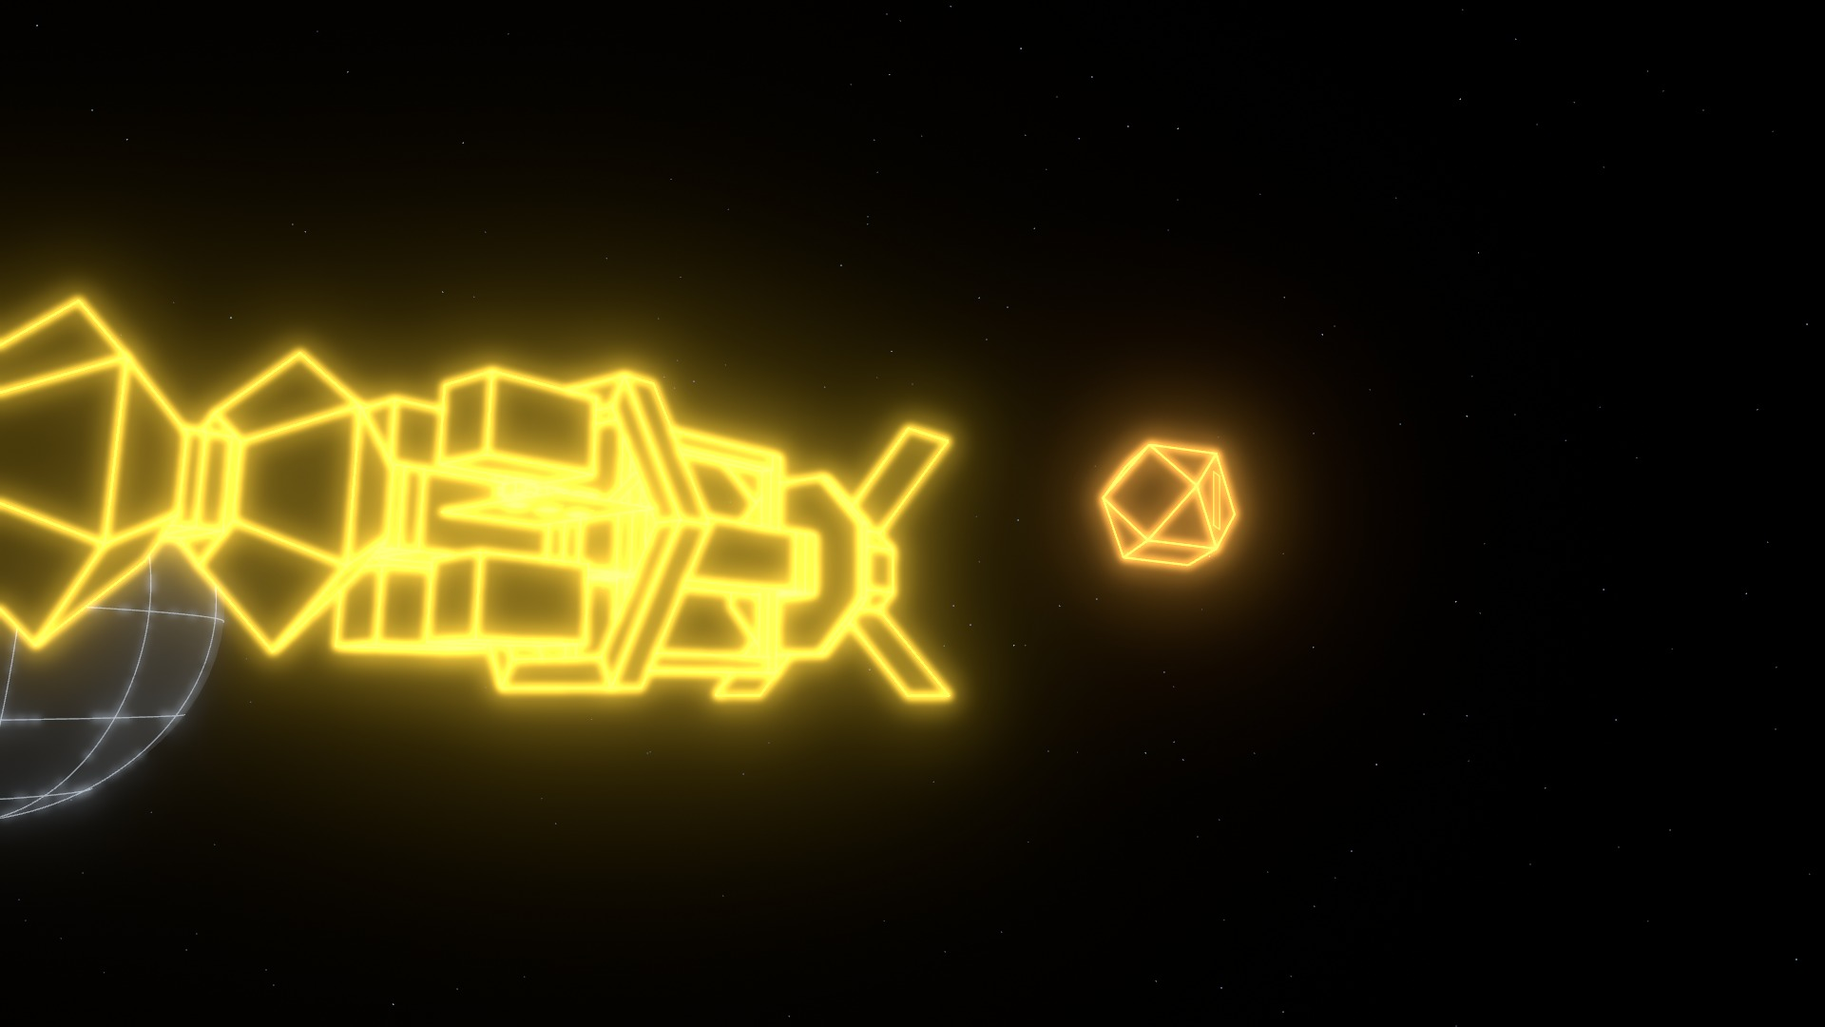
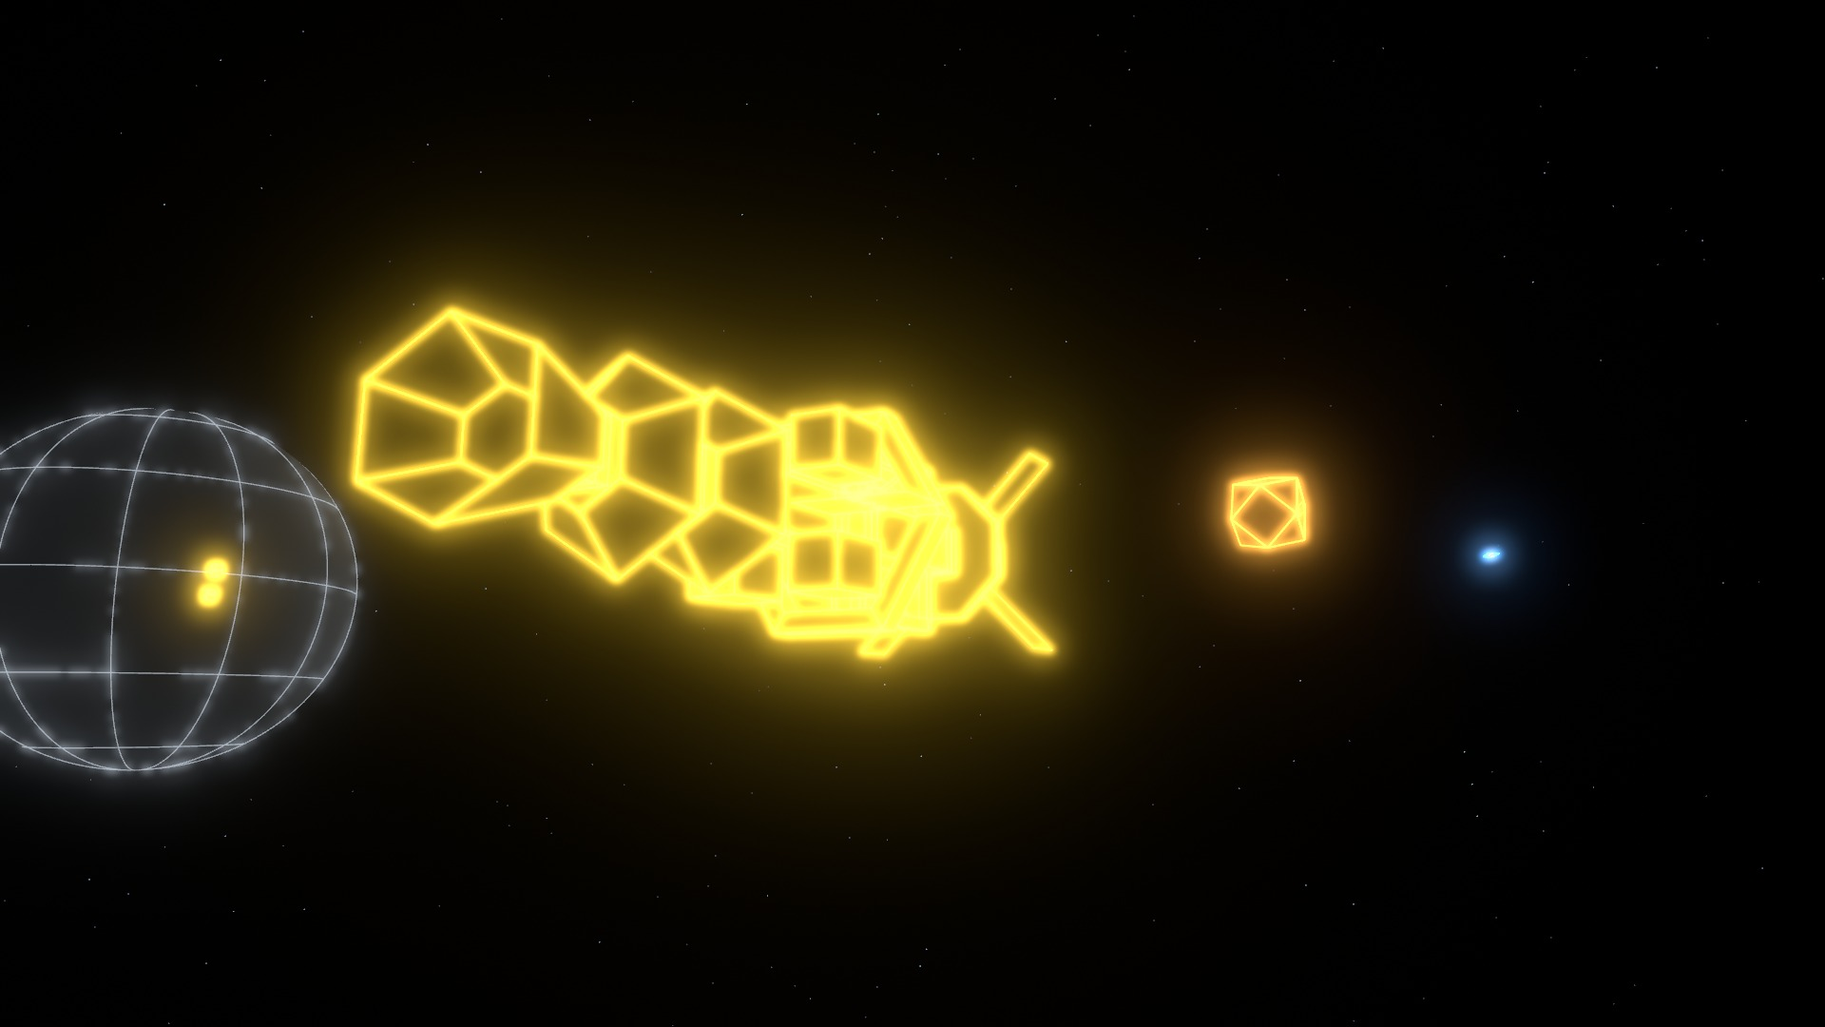
Site: every Titanoboa module its own page, the Bullsnake as ore hauler and tug, Station rising reshot (#368)
* Station rising reshot: the whole Titanoboa, her moon and her pod in frame, centred (Mark)

* Press kit: the three Titanoboa stills on Cloudinary (Mark's OK)

* Every Titanoboa module its own page, open to improve: the section turning, its job, 'Improve this module' straight into the hand-in page, and the prison Titan as the example of a new one (Mark)

* Module pages: Marketing's words, with the pay and Mark's any-role Titanoboa (prison modules beside the science pods)

* Module pages: engine and fuel modules wanted, for a module to fly between stars with a Bullsnake as her bridge (Mark's docking ring; words by Marketing)

* Bullsnake: ore hauler and tug, and in the system only, but for a module flown between stars (Mark)

* Bullsnake: what's built (the ore runs) apart from what's planned (the tug work), and her search words (Marketing)

* Module pages after Game dev's and Marketing's reviews: where each sits and why, the Titan's runs by trader, she flies the stack, Mark's prison list, honest pay, search words, Play free

* Bullsnake: any combination of modules through witchspace, a crew of five, and a Titan reconfigured where she sits (Mark)

* Bullsnake: Marketing's words, through hyperspace

* The drive is the engine (Mark): stacks fly on the Drive and a fuel module, the fuel module still wanted

* Module pages: the fuel module in separate cells, a damaged one ejected and replaced (Mark; words by Marketing)
[…]

Changed region(s): [[0.0, 0.2139, 0.75, 0.825], [0.7812, 0.4889, 0.8438, 0.5806]]

diff --git a/tools/ships.ts b/tools/ships.ts
@@ -98,17 +98,18 @@ const AT_WORK: Record<string, { heading: string; html: string }> = {
   titanoboa: {
     heading: 'Everyone calls her the Titan',
     html: `<p>Titanoboa is her name on Wexley-Yorozu's papers and in the module standard. Out in the galaxy, the news and the radio call her the Titan.</p>
-      <p>She doesn't build alone. While a yard works, a Wexley-Yorozu Bullsnake comes in every eight minutes or so from a real neighbouring system, with what the stage needs: machinery and food while she refines, alloys and minerals for the station’s frame and plating, computers to spin it up. Company Vipers guard her yard, a lost guard replaced from her hold, and most runs to her fly with an escort. Hail a freighter on the way in and she'll say so: <q>Dry Dock, in from Atriso with alloys for the Titan.</q></p>
-      <p>It's all the same on every phone: the freighter you pass is the one every commander there sees. <a href="/design/the-world/">How the galaxy flies</a>.</p>`,
+      <p>She doesn't build alone. While a yard works, a Wexley-Yorozu trader comes in every eight minutes or so from a real neighbouring system, with what the stage needs: machinery and food while she refines, alloys and minerals for the station’s frame and plating, computers to spin it up. Company Vipers guard her yard, a lost guard replaced from her hold, and most runs to her fly with an escort. Hail a trader on the way in and she'll say so: <q>Dry Dock, in from Atriso with alloys for the Titan.</q></p>
+      <p>It's all the same on every phone: the trader you pass is the one every commander there sees. <a href="/design/the-world/">How the galaxy flies</a>.</p>`,
   },
   bullsnake: {
-    heading: 'The Titan’s supply line',
-    html: `<p>Bullsnakes run ore from a moon into the Titan's maw, and fly in from neighbouring systems with what each stage of her build needs, in Wexley-Yorozu colours and usually under escort. Every commander sees the same ones, at the same moment. <a href="/design/the-world/">How the galaxy flies</a>.</p>`,
+    heading: 'Ore hauler and tug',
+    html: `<p>Bullsnakes run ore from a moon into the Titan's maw: every commander sees the same ones, at the same moment. They're her tugs too, and the plan gives them more of her work: fetching food and materials from the local station, ferrying cargo (and one day prisoners) between the Titan and the surface, making repairs, and moving her modules to set her up for the job.</p>
+    <p>They stay in the system: traders carry every good between the stars. The exception will be modules that have to travel. Stack any combination of them on their docking rings, add a drive and a fuel module, dock a Bullsnake in as the bridge, and she flies the whole stack through hyperspace. A Bullsnake carries a crew of about five: a pilot, an engineer and three hands. The same crew can take a Titan apart where she sits and put her back together for a new job. <a href="/design/ship-the-titanoboa/">The Titanoboa</a> · <a href="/design/the-world/">How the galaxy flies</a>.</p>`,
   },
 };
 
 const ROLE: Record<string, string> = {
-  multirole: 'Multirole', pirate: 'Pirate', police: 'Police', marshal: 'Co-operative Marshals', miner: 'Ore hauler', freighter: 'Constructor', station: 'Station',
+  multirole: 'Multirole', pirate: 'Pirate', police: 'Police', marshal: 'Co-operative Marshals', miner: 'Ore hauler and tug', freighter: 'Constructor', station: 'Station',
 };
 
 /** The first sentence, for a share card's line. */
@@ -235,7 +236,7 @@ export const SHIP_GROUPS: { id: string; name: string; line: string; has: (s: Shi
   { id: 'own', name: 'Ships you can fly', line: 'Every commander starts in a Cobra. The Fer-de-lance is built to order at the shipyards; more hulls go on sale when the yards sell them outright.', has: (_, own) => own },
   { id: 'law', name: 'The law', line: 'The police where a station keeps order, and the Co-operative Marshals when a warrant comes due.', has: (s) => s.role === 'police' || s.role === 'marshal' },
   { id: 'pirates', name: 'Pirates and Legends', line: 'The Sidewinder and the Mamba are the pirates’ favourites, and on the shipyards’ lists for when the yards sell hulls outright. Some ships are only ever met.', has: (s) => s.role === 'pirate' },
-  { id: 'industry', name: 'Industry', line: 'Wexley-Yorozu’s yards: the Titan that builds stations, and the freighters that feed her.', has: (s) => s.role === 'miner' || s.role === 'freighter' },
+  { id: 'industry', name: 'Industry', line: 'Wexley-Yorozu’s yards: the Titan that builds stations, and the Bullsnakes that work her yard.', has: (s) => s.role === 'miner' || s.role === 'freighter' },
   { id: 'stations', name: 'Stations', line: 'Where you dock, trade, refit and take on work.', has: (s) => s.role === 'station' },
   { id: 'more', name: 'More ships', line: 'The rest of the fleet.', has: () => true },
 ];
@@ -301,14 +302,142 @@ function modulesCard(s: ShipFile, modules: Map<string, ModuleFile>): string {
     .filter((m): m is ModuleFile => m !== undefined)
     .map((m) => {
       const count = s.modules!.filter((id) => id === m.id).length;
-      return `<li><strong>${esc(m.name)}${count > 1 ? ` ×${count}` : ''}</strong> <span class="muted small">${m.length} m · ${esc(m.zone)} · designed by ${esc(m.designer)}</span><br>${esc(m.description)} <a class="small" href="${REPO}content/modules/${esc(m.id)}.json">File</a></li>`;
+      return `<li><strong><a href="${modulePath(m.id)}">${esc(m.name)}</a>${count > 1 ? ` ×${count}` : ''}</strong> <span class="muted small">${m.length} m · ${esc(m.zone)} · designed by ${esc(m.designer)}</span><br>${esc(m.description)} <a class="small" href="/submit/?module=${esc(m.id)}&amp;as=improve">Improve it</a></li>`;
     })
     .join('');
+  // Sections that aren't in the Standard line-up but are fitted when the job needs them.
+  const extra = [...modules.values()].filter((m) => !s.modules!.includes(m.id)).sort(byZone);
   return `<div class="card ship-modules">
       <h3>Built from modules</h3>
-      <p>Fore to aft: ${s.modules.map((id) => esc(modules.get(id)?.name ?? id)).join(' → ')}. Every module couples the same way, so the line-up changes with the job, and anyone can design a new one to <a href="/design/ship-the-titanoboa/#designing-a-module-the-standard">the standard</a>.</p>
+      <p>Fore to aft: ${s.modules.map((id) => esc(modules.get(id)?.name ?? id)).join(' → ')}. Every module couples the same way, so the line-up changes with the job. Every one is open for anyone to improve, and anyone can design a new one to <a href="/design/ship-the-titanoboa/#designing-a-module-the-standard">the standard</a>.</p>
       <ul>${rows}</ul>
+      ${extra.length ? `<p class="small">Fitted when the job needs them: ${extra.map((m) => `<a href="${modulePath(m.id)}">${esc(m.name)}</a>`).join(', ')}.</p>` : ''}
     </div>`;
+}
+
+const MODULE_ZONES = ['intake', 'industry', 'logistics', 'crew', 'fabrication', 'add-on', 'power'];
+// Within a zone, a module that closes its aft end (the Drive) goes last: nothing can couple behind it.
+const closedAft = (m: ModuleFile) => ((m as Partial<ModuleBody>).couples?.aft === false ? 1 : 0);
+const byZone = (a: ModuleFile, b: ModuleFile) => MODULE_ZONES.indexOf(a.zone) - MODULE_ZONES.indexOf(b.zone) || closedAft(a) - closedAft(b);
+export const modulePath = (id: string) => `/ships/titanoboa/modules/${encodeURIComponent(id)}/`;
+
+/** What each zone is for, in the module standard's words (docs/design/ship-the-titanoboa.md). */
+const ZONE_WORDS: Record<string, string> = {
+  intake: 'Intake: the prow, facing the moon.',
+  industry: 'Industry: the hot, dirty work, where nobody lives.',
+  logistics: 'Logistics: storage, and the tugs’ pads.',
+  crew: 'Crew: where the workers live, shielded both ways.',
+  fabrication: 'Fabrication: where station sections are made.',
+  'add-on': 'Add-on: fitted for the job, and often left with the station.',
+  power: 'Power: the stern, where its heat and shadow fall on nobody.',
+};
+
+/** The Standard line-up, fore to aft, with this module coupled in where its zone puts it if the Standard doesn't carry it. */
+function lineUp(titan: ShipFile, m: ModuleFile, all: ModuleFile[]): string[] {
+  const ids = [...(titan.modules ?? [])];
+  if (ids.includes(m.id)) return ids;
+  const zone = (id: string) => MODULE_ZONES.indexOf(all.find((o) => o.id === id)?.zone ?? '');
+  const at = ids.findIndex((id) => zone(id) > MODULE_ZONES.indexOf(m.zone));
+  ids.splice(at < 0 ? ids.length : at, 0, m.id);
+  return ids;
+}
+
+/** Why each section sits where it does, from the design doc's anatomy (docs/design/ship-the-titanoboa.md). */
+const WHY: Record<string, string> = {
+  maw: 'At the prow, facing the moon. Ore goes from the mouth straight into the crucibles, so the dirtiest, hottest work is together at the end where nobody lives.',
+  furnace: 'Behind the maw, so ore goes straight into the crucibles, and ahead of the hold, where refined metal is stored as it comes out.',
+  hold: 'The buffer between making metal and making station: a furnace can stop for repairs and the fabricator keeps working. The crew arrive by its pads, and its bulk stands between them and the furnaces’ heat and noise.',
+  habitat: 'In the middle, shielded both ways: the crew arrive by the hold’s pads next door, and most of them work in the fabricator on the other side.',
+  fabricator: 'Beside the habitat, where most of its workers live. Material from the hold reaches it along the spine, through the habitat’s hub, and finished sections leave by its open sides.',
+  science: 'Past the fabricator, at the far end from the crew: one find to a pod, at arm’s length, and an ejected pod endangers nobody.',
+  reactor: 'At the stern. Its shadow shield faces forward, so everything ahead of it is in its shade, its radiators point where nothing else is, and its power runs forward along the spine.',
+  drive: 'At the very stern, behind the reactor, when a station has to be moved; or at the back of a stack of modules, with a fuel module, for a Bullsnake to fly between the stars. It couples fore only, so nothing can go behind it.',
+};
+
+/** One Titanoboa module's own page: the section turning, what it does, and how to improve it (Mark: every module open to the community). */
+export function modulePage(m: ModuleFile & ModuleBody, titan: ShipFile, all: ModuleFile[]) {
+  const order = [...all].sort(byZone);
+  const i = order.findIndex((o) => o.id === m.id);
+  const prev = order[(i - 1 + order.length) % order.length];
+  const next = order[(i + 1) % order.length];
+  const inStandard = titan.modules?.filter((id) => id === m.id).length ?? 0;
+  const c = m.credits ?? {};
+  const asShip = { id: m.id, name: m.name, geometry: m.geometry, style: titan.style } as ShipFile;
+  const def = JSON.stringify({ id: m.id, name: m.name, role: titan.role, geometry: m.geometry, style: titan.style ?? {} }).replace(/</g, '\\u003c');
+  const label = `Titanoboa ${m.name}`;
+  return {
+    card: { ship: 'titanoboa', kicker: 'Titanoboa module', title: m.name, sub: firstSentence(m.description) },
+    schema: [
+      {
+        '@type': 'CreativeWork',
+        name: label,
+        description: m.description,
+        creator: (c.authors ?? ['Witchspace contributors']).map((name) => ({ '@type': 'Organization', name })),
+        license: 'https://creativecommons.org/licenses/by-sa/4.0/',
+        isPartOf: { '@type': 'CreativeWork', name: 'Titanoboa', url: 'https://witchspace.org.uk/ships/titanoboa/' },
+      },
+    ],
+    title: `${m.name}: a Titanoboa module · Witchspace`,
+    description: `The Titanoboa's ${m.name.toLowerCase()} module: ${m.description} Open for anyone to improve, in Witchspace, the free space game you play in your browser.`.slice(0, 300),
+    content: `<section class="section ship-page module-page">
+  <a class="back" href="/ships/titanoboa/">← The Titanoboa</a>
+  <div class="ship-hero">
+    <div class="ship-view" data-ship="${esc(m.id)}">
+      ${shipSvg(asShip, 'ship-svg fallback')}
+      <canvas class="ship-canvas" aria-label="The ${esc(m.name)} module, turning: drag to rotate"></canvas>
+    </div>
+    <div class="ship-copy">
+      <p class="kicker">Titanoboa module · ${esc(m.zone)}</p>
+      <h1>${esc(m.name)}</h1>
+      <p class="lede">${esc(m.description)}</p>
+      <dl class="ship-stats">
+        <div><dt>Length</dt><dd>${m.length} m</dd></div>
+        <div><dt>Couples</dt><dd>${m.couples.fore && m.couples.aft ? 'Fore and aft' : m.couples.fore ? 'Fore only (always the stern)' : m.couples.aft ? 'Aft only (always the prow)' : 'Neither end'}</dd></div>
+        <div><dt>In the Standard</dt><dd>${inStandard ? (inStandard > 1 ? `×${inStandard}` : 'Yes') : 'When the job needs it'}</dd></div>
+        <div><dt>Designed by</dt><dd>${esc(m.designer)}</dd></div>
+      </dl>
+      <p class="muted small">${esc(ZONE_WORDS[m.zone] ?? m.zone)}</p>
+      <p class="ship-share"><a class="button primary small" href="/submit/?module=${esc(m.id)}&amp;as=improve">Improve this module</a> <button type="button" class="button ghost small" data-share data-share-url="${modulePath(m.id)}" data-share-title="${esc(label)}">Share</button></p>
+    </div>
+  </div>
+  <script type="application/json" id="ship-def">${def}</script>
+
+  <div class="card module-place">
+    <h3>Where it sits</h3>
+    <ol class="module-strip" aria-label="The Titanoboa, fore to aft">${lineUp(titan, m, all)
+      .map((id) => (id === m.id ? `<li aria-current="true"><b>${esc(m.name)}</b></li>` : `<li><a href="${modulePath(id)}">${esc(all.find((o) => o.id === id)?.name ?? id)}</a></li>`))
+      .join('')}</ol>
+    ${WHY[m.id] ? `<p>${WHY[m.id]}</p>` : ''}
+    ${inStandard ? '' : '<p class="muted small">Not in the Standard line-up: shown where it couples when the job needs it.</p>'}
+  </div>
+
+  <div class="ship-columns">
+    <div class="card">
+      <h3>Make it better</h3>
+      <p>Every section of the Titanoboa is open. Redraw this one: a clearer shape, a better reason for where it sits, something it’s missing. Start from its file on the hand-in page, check it against the standard as you go, and send it. No GitHub needed. If it’s accepted, it goes into the game under your callsign. If the reviewers accept it as a revision (small fixes are credited, not paid), Wexley-Yorozu pays your commander 2,000 Cr the first time it’s fitted.</p>
+      <p><a class="button ghost small" href="/submit/?module=${esc(m.id)}&amp;as=improve">Improve the ${esc(m.name.toLowerCase())}</a> <a class="button ghost small" href="/ideas/?about=${encodeURIComponent(label)}">Suggest an idea instead</a></p>
+      <ul class="ship-ideas" data-ship-name="${esc(label)}"><li class="muted">Looking for ideas about the ${esc(m.name.toLowerCase())}…</li></ul>
+      <p class="muted small">Drawn by ${esc((c.authors ?? []).join(', ') || m.designer)}${c.aiAssisted ? ', with AI assistance' : ''}. Licence: ${esc(c.license ?? 'CC-BY-SA-4.0')}. <a href="${REPO}content/modules/${esc(m.id)}.json">The file on GitHub</a>.</p>
+    </div>
+    <div class="card">
+      <h3>Or design a new one</h3>
+      <p>The Titanoboa is whatever the job needs: sections on one coupling, lined up for the work. Mining, building, hauling, or work the company would rather you didn’t ask about. A prison module is wanted. Bolt enough of them together, with accommodation, a gym complex and science stations where the inmates may be put to use in experiments (the science pods can be ejected if anything gets out), and you have a prison Titanoboa, her Bullsnake tugs ferrying inmates down to the surface and back. Wexley-Yorozu calls it rehabilitation. For the long haul between stars, a module is stacked on its docking ring with a <a href="/ships/titanoboa/modules/drive/">drive module</a> and a fuel module of separate cells, so a damaged one can be ejected and a fresh one fitted, and recharged with hydrogen from the local station’s market (the fuel module is still wanted); dock a Bullsnake in its ring as the bridge, and she flies the whole stack to another system. Draw the module you think she’s missing: if it’s built, your commander is paid 5,000 Cr the first time it’s fitted.</p>
+      <p class="muted small">Pay goes to a commander with an account and a callsign, and arrives the next time they dock in a Modern game.</p>
+      <p><a class="button ghost small" href="/submit/?module=${esc(m.id)}&amp;as=new">Start a new module from this one</a> <a class="button ghost small" href="/design/ship-the-titanoboa/#designing-a-module-the-standard">The standard</a></p>
+    </div>
+  </div>
+
+  <p class="module-play">Watch one work: <a class="button primary small" href="/play/">Play free</a></p>
+  <nav class="module-nav" aria-label="The other modules"><a href="${modulePath(prev.id)}">← ${esc(prev.name)}</a><a href="/ships/titanoboa/">The whole Titanoboa</a><a href="${modulePath(next.id)}">${esc(next.name)} →</a></nav>
+</section>`,
+  };
+}
+
+/** A module file's drawing and credits, beyond what the ship page lists. */
+export interface ModuleBody {
+  couples: { fore: boolean; aft: boolean };
+  geometry: ShipFile['geometry'];
+  credits?: ShipFile['credits'];
 }
 
 /**

diff --git a/tools/build-site.ts b/tools/build-site.ts
@@ -11,7 +11,7 @@ import { docPanel, helpSkillsHtml, helpWantedHtml, libraryHtml, loadDocs, PILLAR
 import { currencyExamplesHtml } from './economy';
 import { companiesHub, companyPage, jobsPage, loadJobs } from './jobs';
 import { drawerButtons, editionsFor, loadModules, loadShips, manualFor, ownable } from './shipFiles';
-import { buildPage, editionPage, groupShips, manualPage, papersPage, shipPage, shipsIndex } from './ships';
+import { buildPage, editionPage, groupShips, manualPage, modulePage, modulePath, papersPage, shipPage, shipsIndex, type ModuleBody, type ModuleFile } from './ships';
 import { galaxyHub, SYSTEMS, systemPage } from './systems';
 import { careerDeck } from './careerDeck';
 import { systemUrl } from '../src/site/systemNow';
@@ -273,6 +273,11 @@ const FILMS_OF: Record<string, { name: string; url: string; embedUrl?: string }[
 const withFilms = (id: string, p: ReturnType<typeof shipPage>) =>
   FILMS_OF[id] ? { ...p, schema: p.schema.map((o, i) => (i === 0 ? { ...o, subjectOf: FILMS_OF[id].map((f) => ({ '@type': 'VideoObject', ...f })) } : o)) } : p;
 for (const s of ships) write({ ...forSearch(`/ships/${s.id}/`, s.name, withFilms(s.id, shipPage(s, shipModules, false, editionsFor(s), ownable(s)))), scripts: ['/src/site/ship.ts'], bodyClass: 'ships-page' });
+// Every module of the Titan has its own page, open to improve (Mark).
+const titan = ships.find((s) => s.id === 'titanoboa');
+if (titan)
+  for (const m of shipModules.values())
+    write({ ...forSearch(modulePath(m.id), m.name, modulePage(m as ModuleFile & ModuleBody, titan, [...shipModules.values()])), parent: { name: titan.name, path: '/ships/titanoboa/' }, scripts: ['/src/site/ship.ts'], bodyClass: 'ships-page' });
 // Owner's manuals: one for every ship the yard sells, shown only to her owner.
 const cobra = ships.find((s) => s.id === 'cobra-mk3')!;
 const drawer = drawerButtons(root);

diff --git a/src/site/site.css b/src/site/site.css
@@ -1964,3 +1964,16 @@ html.clip-open { overflow: hidden; }
 .clip-heart[aria-pressed='true'] svg { fill: #ff6b8e; stroke: #ff6b8e; }
 .clip-invite { margin: 12px 0 0; color: #9aa6b6; font: 14px var(--font); }
 .clip-invite a { color: #3dffb0; }
+
+/* A Titanoboa module's page: the next and previous sections along the Titan. */
+.module-nav { display: flex; justify-content: space-between; gap: 1rem; flex-wrap: wrap; margin-top: 2rem; padding-top: 1rem; border-top: 1px solid var(--border); font-size: 0.95rem; }
+.module-nav a:nth-child(2) { color: var(--muted); }
+.module-place { margin-top: 32px; }
+.module-strip { list-style: none; display: flex; flex-wrap: wrap; gap: 6px; padding: 0; margin: 12px 0 14px; counter-reset: none; }
+.module-strip li { display: flex; align-items: center; gap: 6px; font-size: 0.9rem; }
+.module-strip li + li::before { content: '→'; color: var(--muted); }
+.module-strip a, .module-strip b { padding: 4px 10px; border: 1px solid var(--border); border-radius: 999px; text-decoration: none; }
+.module-strip b { border-color: var(--fg); background: var(--fg); color: var(--bg); font-weight: 600; }
+.module-play { margin-top: 32px; display: flex; align-items: center; gap: 12px; flex-wrap: wrap; }
+/* The ideas board's "nothing yet" or "not answering" line: a note, not a list item. */
+.ship-ideas li.muted { list-style: none; margin-left: -18px; font-size: 0.9em; }

diff --git a/src/site/submit.ts b/src/site/submit.ts
@@ -370,6 +370,9 @@ const startWith = new URLSearchParams(location.search).get('module');
 if (startWith && cores.some((c) => c.id === startWith)) {
   core.value = startWith;
   core.dispatchEvent(new Event('change'));
+  // From a module's own page: "Improve this module" starts the improvement straight away.
+  const as = new URLSearchParams(location.search).get('as');
+  if (as === 'improve' || as === 'new') document.querySelector<HTMLButtonElement>(`[data-start="${as}"]`)?.click();
 }
 account.render();
 void refresh().then(() => {
